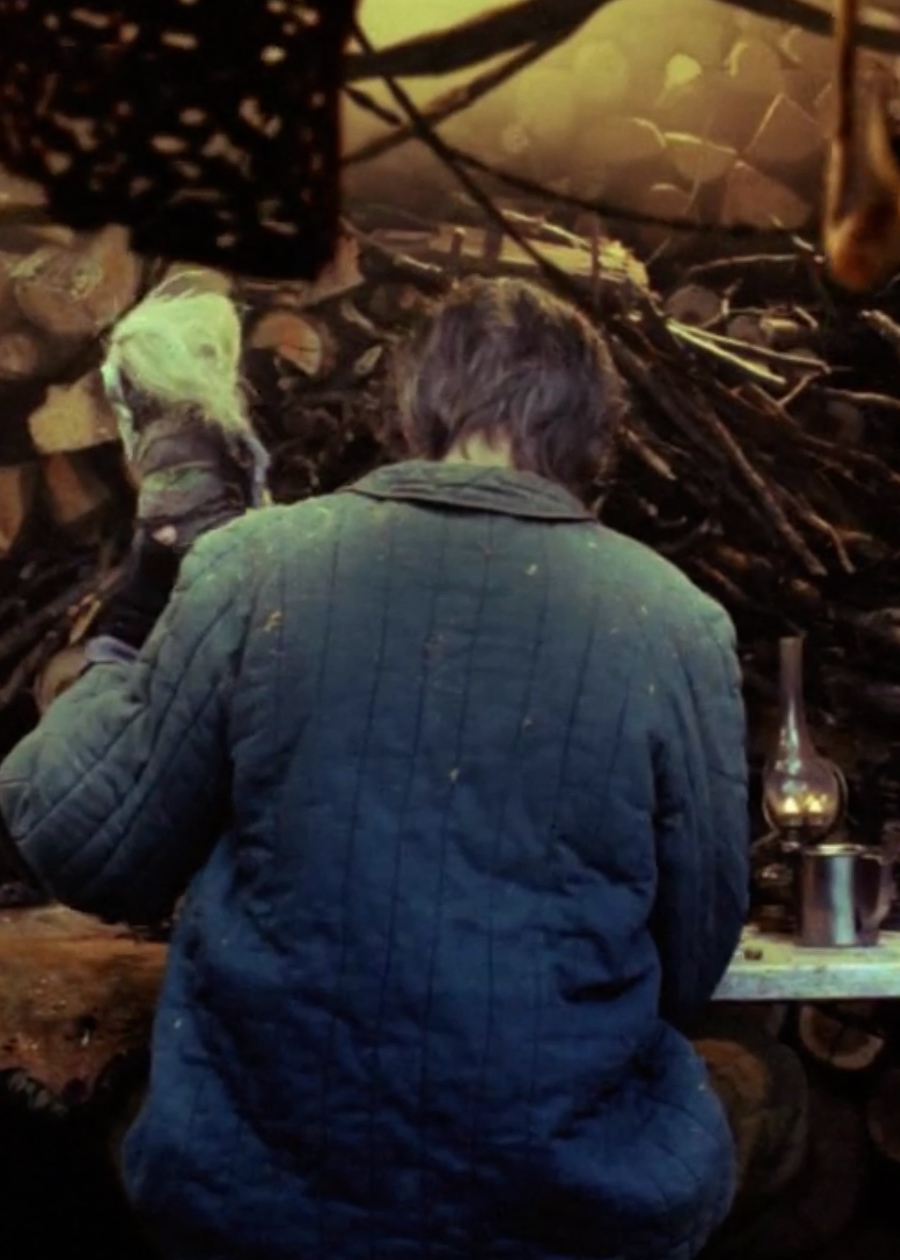
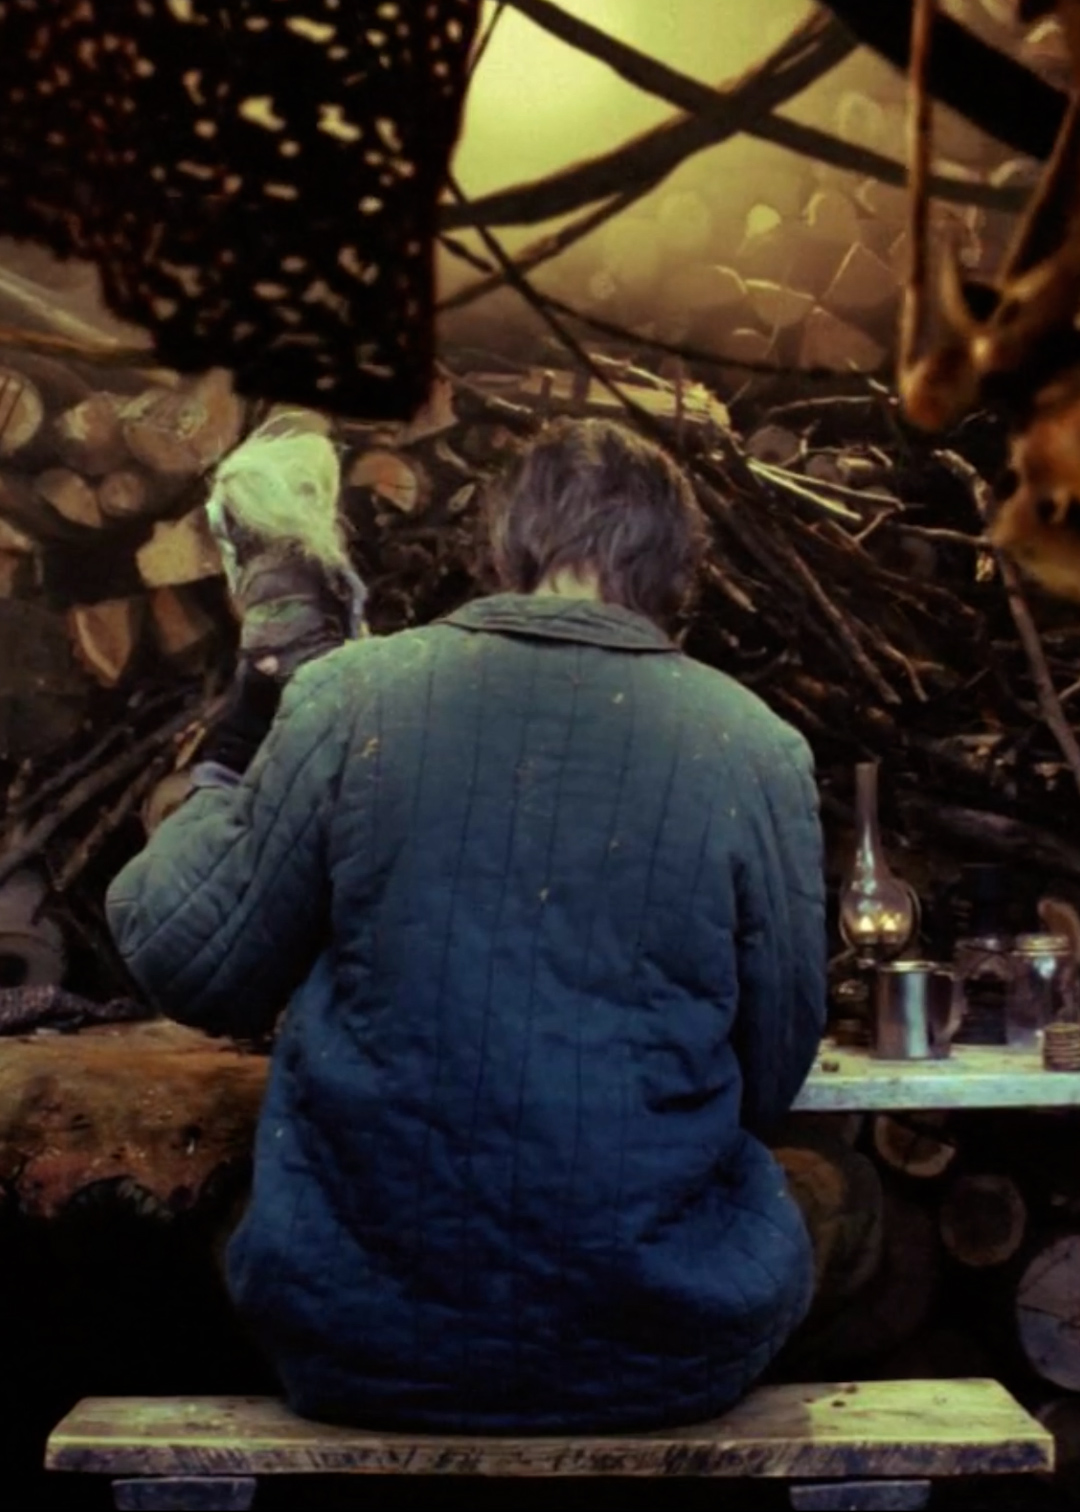
Fix NavIcon hover glow and update Snow King card poster.
Move triangle gradient overlay outside the header stacking context so blend-mode works globally; refresh Snow King homepage card image.

diff --git a/app/globals.css b/app/globals.css
@@ -369,33 +369,45 @@ main {
 }
 
 .navTriOverlay {
-  position: absolute;
-  inset: 0;
-  /* triangle sits in a square circumscribed-circle viewBox; vertices at (50%,0%), (93.3%,75%), (6.7%,75%) */
-  clip-path: polygon(50% 0%, 93.3% 75%, 6.7% 75%);
-  background: radial-gradient(
-    120% 120% at 50% 40%,
-    rgba(255, 100, 160, 0.6),
-    rgba(255, 100, 160, 0.4) 45%,
-    rgba(255, 100, 160, 0.2) 70%,
-    rgba(255, 100, 160, 0.05) 100%
-  );
-  animation: navGlow 28s ease-in-out infinite;
-  opacity: 0;
-  transition: opacity 180ms ease;
-  will-change: filter, opacity;
+  display: none;
 }
 
-.navTriWrap:hover .navTriOverlay,
-.navTriWrap:focus-visible .navTriOverlay,
-.navTriWrap:focus-within .navTriOverlay {
+/* ─── NavIcon gradient overlay (outside header stacking context) ── */
+
+.navTriGlobalOverlayWrap {
+  mix-blend-mode: normal;
+  position: fixed;
+  /* align with triangle: header is at frame-padding, triangle is tallest item so flush to top */
+  top: var(--frame-padding);
+  left: 50%;
+  transform: translateX(-50%);
+  /* matches NavIcon DISPLAY ≈ VIEW*(44/100) where VIEW=R*2, R=H*2/3, H=SIDE*sqrt(3)/2, SIDE=100 */
+  width: 50.81px;
+  height: 50.81px;
+  pointer-events: none;
+  z-index: 51;
+  opacity: 0;
+  transition: opacity 200ms ease;
+}
+
+.navTriGlobalOverlay {
+  width: 100%;
+  height: 100%;
+  clip-path: polygon(50% 0%, 93.3% 75%, 6.7% 75%);
+  background: linear-gradient(160deg, #ff2d78 0%, #d44dff 50%, #2d8fff 100%);
+  transform-origin: 50% 50%;
+  animation: navRotate 45s linear infinite, navGlow 6s ease-in-out infinite;
+}
+
+body:has(.navTriLink:hover) .navTriGlobalOverlayWrap,
+body:has(.navTriLink:focus-visible) .navTriGlobalOverlayWrap {
   opacity: 1;
 }
 
 @keyframes navGlow {
-  0%   { filter: hue-rotate(0deg) saturate(1.05); }
-  50%  { filter: hue-rotate(180deg) saturate(1.1); }
-  100% { filter: hue-rotate(360deg) saturate(1.05); }
+  0%   { filter: hue-rotate(0deg) saturate(1.4); }
+  50%  { filter: hue-rotate(60deg) saturate(1.6); }
+  100% { filter: hue-rotate(0deg) saturate(1.4); }
 }
 
 /* ─── AudioPlayer ───────────────────────────────────────── */

diff --git a/app/(site)/layout.tsx b/app/(site)/layout.tsx
@@ -100,6 +100,9 @@ export default function SiteLayout({ children }: { children: React.ReactNode }) 
         <Header />
         <main>{children}</main>
       </LenisProvider>
+      <div className="navTriGlobalOverlayWrap" aria-hidden="true">
+        <div className="navTriGlobalOverlay" />
+      </div>
     </>
   );
 }

diff --git a/components/NavIcon.tsx b/components/NavIcon.tsx
@@ -37,9 +37,6 @@ export default function NavIcon() {
           />
         </svg>
       </RollLink>
-      <div className="navTriOverlayWrap">
-        <span className="navTriOverlay" aria-hidden="true" />
-      </div>
     </div>
   );
 }
